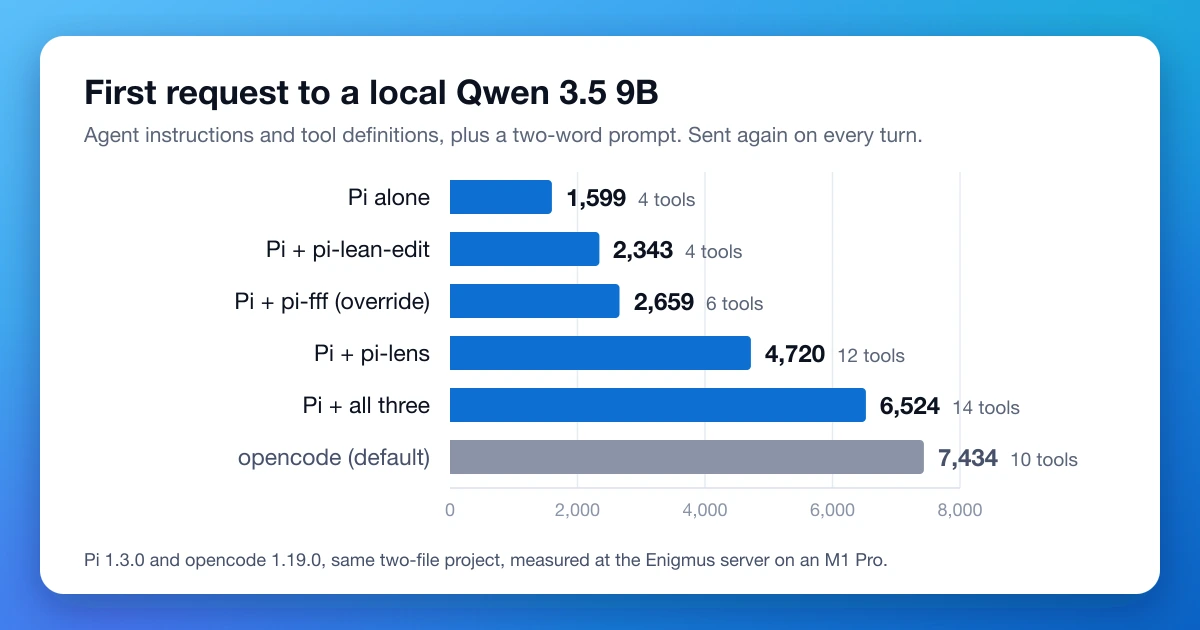
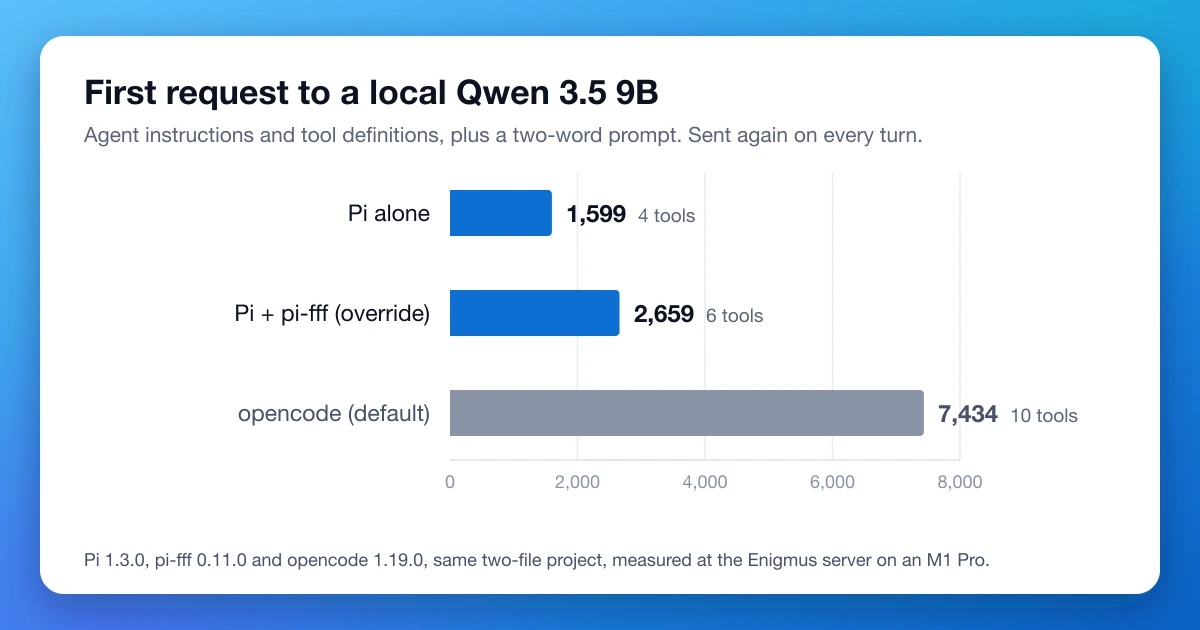
Keep pi-fff as the one measured package in the Pi post
pi-fff is the only package that paid for its tokens in the runs, so the package section is now about it alone, and the first-request chart shows Pi, Pi + pi-fff and opencode. pi-lens and pi-lean-edit move to a short "Additional useful packages" list, one line and a link each.

diff --git a/content/posts/pi-coding-agent-on-enigmus.md b/content/posts/pi-coding-agent-on-enigmus.md
@@ -10,7 +10,7 @@ draft: true
 
 Enigmus 1.3 adds an LLM Server: a switch in the app that serves the loaded model over an OpenAI-compatible endpoint, with tool calling on the Qwen 3.5 2B, 4B and 9B. A coding agent needs exactly that: it works through a task by asking the model for a step, running it (reading a file, running a command, editing code) and sending back the result, turn after turn. [Pi](https://pi.dev) is an open-source coding agent for the terminal, with a small core that packages extend.
 
-On a local model, every token in that loop costs time. On a 16 GB M1 Pro, Qwen 3.5 9B reads its prompt at about 160 tokens per second. The agent resends the whole conversation on every turn, instructions and tool definitions included, and Enigmus reads it from the start each time. The 9B needs 10.3 s to read Pi's first request and 46.2 s for [opencode](https://opencode.ai)'s. This post covers why Pi fits a local model, how to set it up so the model calls stay on the Mac, and three Pi packages with what each one buys for the tokens it adds.
+On a local model, every token in that loop costs time. On a 16 GB M1 Pro, Qwen 3.5 9B reads its prompt at about 160 tokens per second. The agent resends the whole conversation on every turn, instructions and tool definitions included, and Enigmus reads it from the start each time. The 9B needs 10.3 s to read Pi's first request and 46.2 s for [opencode](https://opencode.ai)'s. This post covers why Pi fits a local model, how to set it up so the model calls stay on the Mac, and a Pi package for search that earns back the tokens it adds.
 
 ## Why Pi fits a local model
 
@@ -77,36 +77,27 @@ On a two-file toy project with an off-by-one divisor, five runs in a row fixed t
 
 At startup the interactive session contacts pi.dev and GitHub for its model catalog and update checks, which `PI_OFFLINE=1 pi` skips. Watched with `nettop`, Pi's process connected only to 127.0.0.1:31415, both in a `-p` run and in an interactive session with `PI_OFFLINE=1`.
 
-## Adding packages
+## Faster search with pi-fff
 
-Pi installs extra tools as packages. Each one adds its tool definitions to every request, so it costs reading time on every turn. The chart shows that cost for the three packages tested here, and the table below it shows what each one does in return. The versions tested were `@ff-labs/pi-fff` 0.11.0, `pi-lens` 4.4.3 and 4.4.4 (same tool definitions), and `pi-lean-edit` 0.3.6.
+Pi installs extra tools as packages. Each one adds its tool definitions to every request, so it costs reading time on every turn. [`@ff-labs/pi-fff`](https://github.com/dmtrKovalenko/fff/tree/main/packages/pi-fff) 0.11.0 adds 1,060 tokens, and the first request stays far below opencode's:
 
-<img src="/images/pi-coding-agent-first-request.webp" alt="Bar chart of the first request each setup sends to a local Qwen 3.5 9B, in tokens: Pi alone 1,599 with 4 tools, Pi plus pi-lean-edit 2,343 with 4 tools, Pi plus pi-fff in override mode 2,659 with 6 tools, Pi plus pi-lens 4,720 with 12 tools, Pi plus all three 6,524 with 14 tools, and opencode in its default setup 7,434 with 10 tools" style={{maxWidth: '720px', width: '100%', display: 'block', margin: '0 auto', borderRadius: '8px'}} />
+<img src="/images/pi-coding-agent-first-request.webp" alt="Bar chart of the first request each setup sends to a local Qwen 3.5 9B, in tokens: Pi alone 1,599 with 4 tools, Pi plus pi-fff in override mode 2,659 with 6 tools, and opencode in its default setup 7,434 with 10 tools" style={{maxWidth: '720px', width: '100%', display: 'block', margin: '0 auto', borderRadius: '8px'}} />
 
-| Package | Adds to every request | What it does for that |
-|---|---|---|
-| `@ff-labs/pi-fff` | 1,060 tokens | Search that skips gitignored folders: a search question answered in 42 to 70 s instead of 119 to 203 s |
-| `pi-lens` | 3,121 tokens | Lint and type problems reported right after each write: in one trial, it flagged an unused import and trailing spaces in the 9B's first edit, and the file ended clean |
-| `pi-lean-edit` | 744 tokens | Edits that name line ranges instead of resending old text: edit calls 39 to 46% smaller on a 45-line rewrite |
-
-With all three, the first request is 6,524 tokens and 39.8 s of reading, still under opencode's 7,434.
-
-**`@ff-labs/pi-fff` skips what git ignores.** Pi leaves `find` and `grep` off by default, so without a package the model searches through `bash`. In override mode, set by the install lines at the end of this section, `pi-fff` supplies those two tools under their usual names. Asked "Which files in this project import sys?" in a small Python project with a `.venv`, the 9B on Pi alone ran `find` and `grep` through `bash`, listed files inside the `.venv` along the way, and took 4 to 8 requests. With `pi-fff`, one or two `grep` calls skipped the gitignored `.venv` and returned the three files with line numbers, in 2 or 3 requests:
+Those tokens pay off when the model has to find code. Pi leaves `find` and `grep` off by default, so without a package the model searches through `bash`. In override mode, `pi-fff` supplies those two tools under their usual names. Asked "Which files in this project import sys?" in a small Python project with a `.venv`, the 9B on Pi alone ran `find` and `grep` through `bash`, listed files inside the `.venv` along the way, and took 4 to 8 requests. With `pi-fff`, one or two `grep` calls skipped the gitignored `.venv` and returned the three files with line numbers, in 2 or 3 requests:
 
 <img src="/images/pi-coding-agent-fff-search.webp" alt="Bar chart of the time Qwen 3.5 9B took to answer which files in a Python project import sys, three runs each: with pi-fff 45 s in 2 requests, 42 s in 2 requests and 70 s in 3 requests; with Pi alone 203 s in 7 requests, 119 s in 4 requests and 157 s in 8 requests" style={{maxWidth: '720px', width: '100%', display: 'block', margin: '0 auto', borderRadius: '8px'}} />
 
-**`pi-lens` checks every write.** It runs linters and type checkers on each write and edit and hands the findings straight back to the model. It also adds LSP diagnostics and a `read_symbol` tool that reads a single function or class. Asked to add a `median()` function to a five-line Python file with an unused `import os`, the 9B's first edit came back with "2 issue(s) must be fixed": the unused import and a blank line with trailing spaces. `pi-lens` reported each problem until the file was clean. It downloads most of its tools from npm, PyPI or GitHub the first time a language needs them.
-
-**`pi-lean-edit` keeps edits short.** The package checks that the model already read the text it edits, so an edit names line ranges instead of resending the old text, and one call can change several ranges. On a 45-line function rewrite, three runs each way, its edit calls came out 39 to 46% smaller than with Pi's own `edit`.
-
-Each installs with one command. The second line switches `pi-fff` to override mode for every session; by default its tools are named `fffind` and `ffgrep`:
+It installs with one command. The second line switches `pi-fff` to override mode for every session; by default its tools are named `fffind` and `ffgrep`:
 
 ```bash
 pi install npm:@ff-labs/pi-fff
 echo '{"mode": "override"}' > ~/.pi/agent/pi-fff.json
-pi install npm:pi-lens
-pi install npm:pi-lean-edit
 ```
+
+## Additional useful packages
+
+- [`pi-lens`](https://github.com/apmantza/pi-lens) runs linters and type checkers on every write and edit and hands the findings back to the model.
+- [`pi-lean-edit`](https://github.com/sergiobonfiglio/pi-lean-edit) lets an edit name line ranges instead of resending the old text it replaces.
 
 ## Getting it
 
